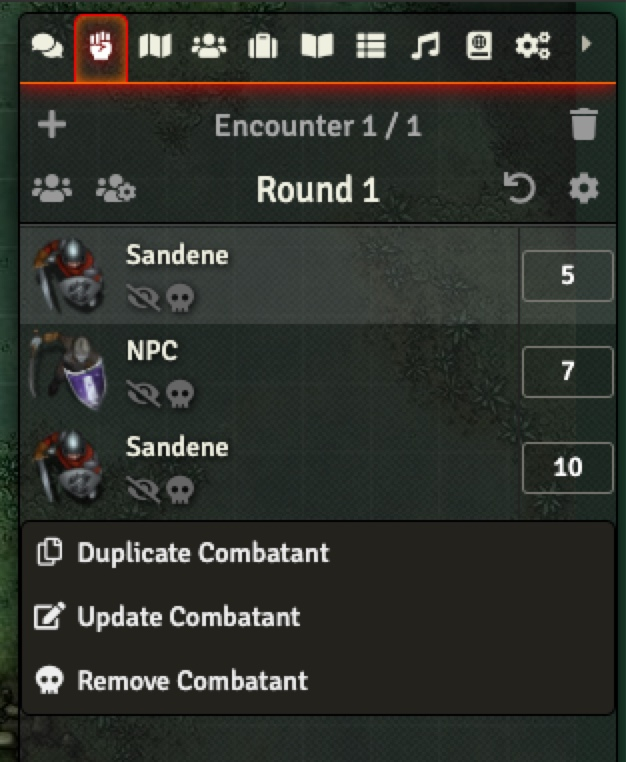
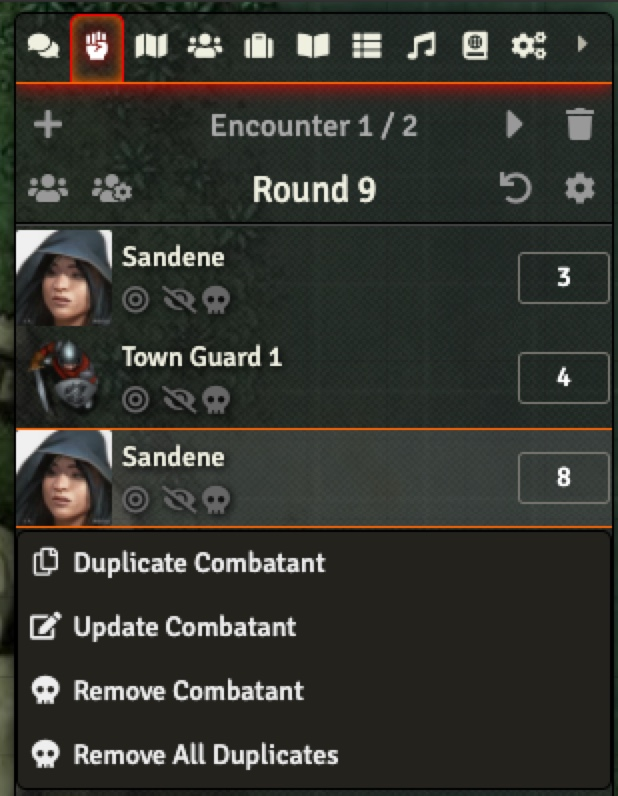
chore: update readme

Changed region(s): [[0.0, 0.0, 1.0, 1.0], [0.9223, 0.0302, 0.9531, 0.0604]]

diff --git a/readme.md b/readme.md
@@ -5,31 +5,30 @@ This is useful for systems like RuneQuest that use numbered "strike ranks".
 In addition to that it also replaces the initiative roll with an input field for quick entry. This feature 
 can be toggled off by a module setting (on be default). Only the owner of the actor (and GM) can edit the initiative value.
 
-It optionally also adds a right click context menu alternative "Duplicate Combatant" to make it possible to have the same actor 
+It optionally also adds a right click context menu alternative "Duplicate Combatant" and "Remove All Duplicates" to make it possible to have the same actor 
 token get multiple actions in the same round. In RuneQuest for example you can fire multiple arrows in the same 
 round if you are fast enough. This setting is off by default. 
 
 ![Screenshot](screenshots/combatTracker.jpg?raw=true)
 
 ## Compatibility
-This module is system agnostic, and requires Foundry VTT 0.7.x
+This module is system agnostic, and requires Foundry VTT 0.8.x (there are older versions compatible with Foundry 0.7.x)
 
 ## Installation 
-1 Inside Foundry's Configuration and Setup screen, go to Add-on Modules
+1. Inside Foundry's Configuration and Setup screen, go to Add-on Modules
 
-2 Click "Install Module"
+2. Click "Install Module"
 
-3 In the Manifest URL field paste: https://github.com/wakeand/fvtt-module-reverseinitiativeorder/releases/latest/download/module.json
+3. In the Manifest URL field paste: https://github.com/wakeand/fvtt-module-reverseinitiativeorder/releases/latest/download/module.json
+
+4. Installing the module LibWrapper is highly recommended to avoid conflicts with other modules
 
 ## Usage
 Once activated the order in the combat tracker will go from lowest to highest instead of the other way around. It will also add an input
-field that allows you to directly set the initiative. In the module settings you can set minimum and maximum initiative allowed in that input. 
+field that allows you to directly set the initiative, this can be toggled of by a module setting. In the module settings you can set minimum and maximum initiative allowed in that input. 
 This defaults to 1-12 (To match strike ranks in RuneQuest).
 
 There is also a setting for adding a context menu item that allows combatants to be duplicated.
-This requires some monkey patching since Foundry VTT by default only allows 1:1 relation between 
-tokens and combatants. The setting is off by default and if you experience any problems with 
-it on, try turning it off since these changes are brittle.
 
 ## Issues
 If you have any issues, concerns or improvement ideas, please don't hesitate to open an issue: https://github.com/wakeand/fvtt-module-reverseinitiativeorder/issues
